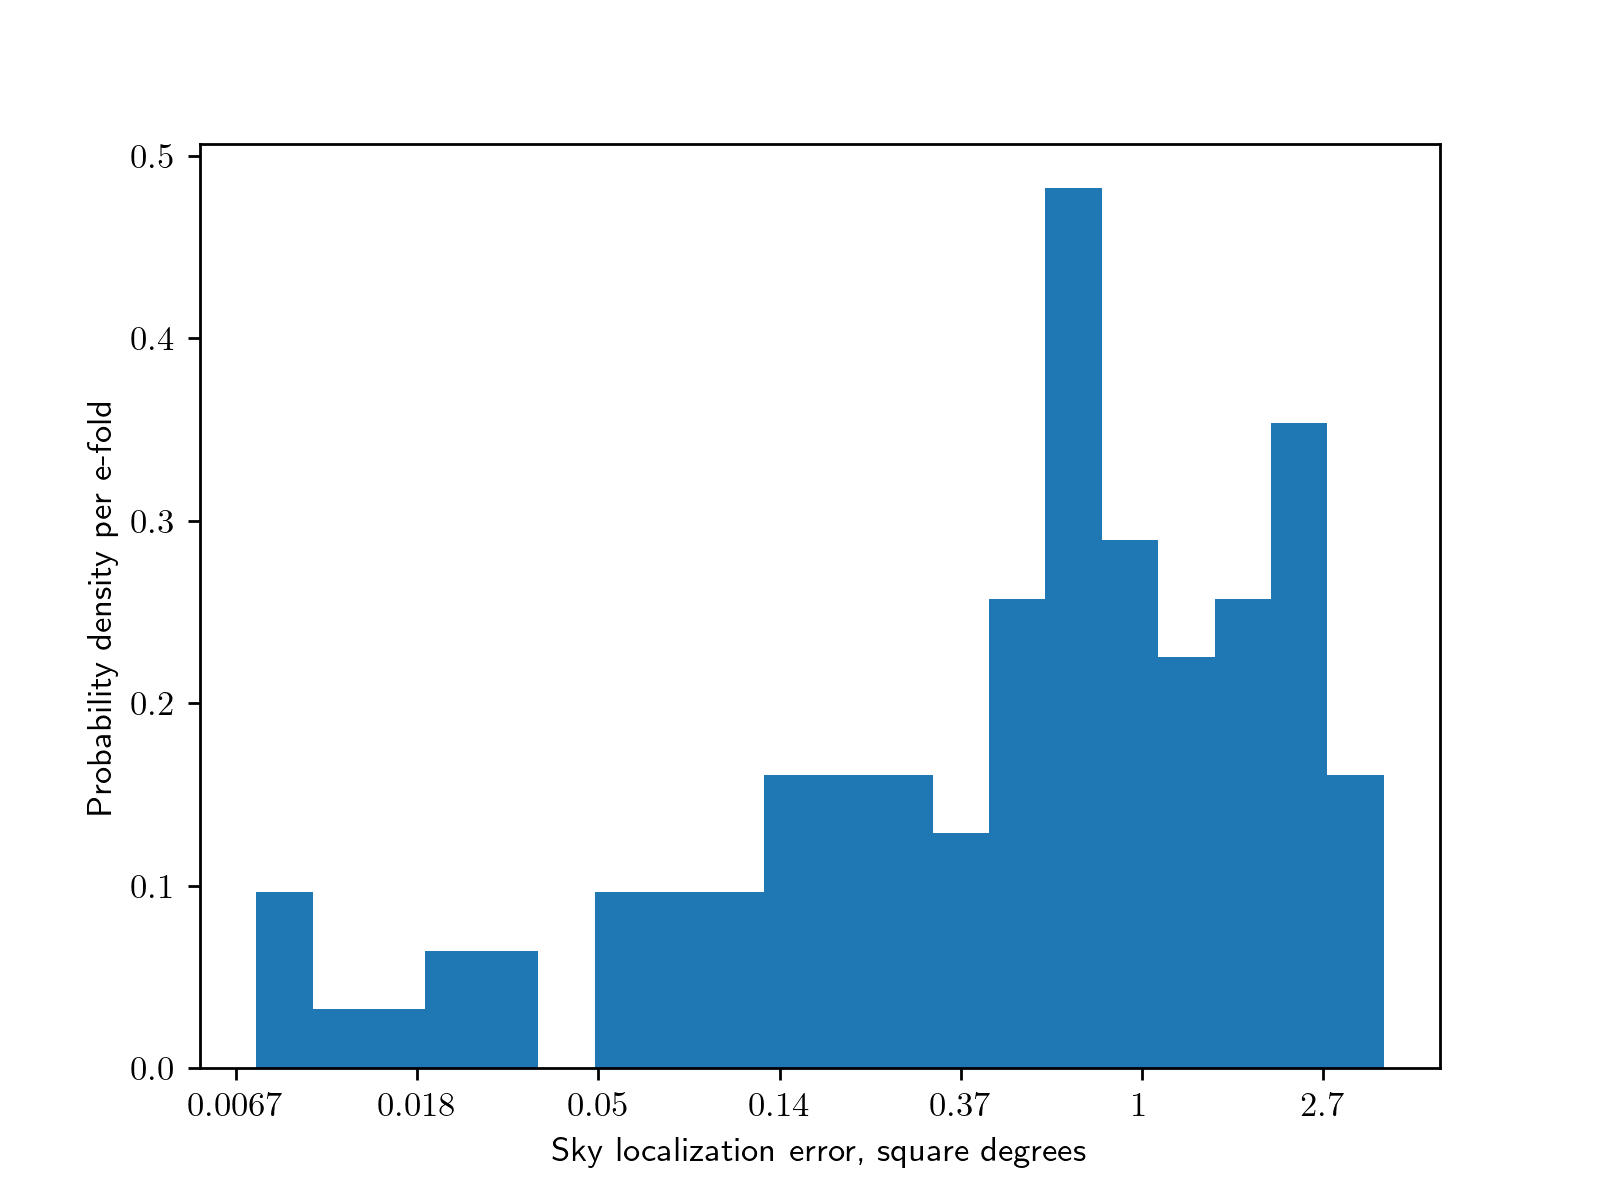
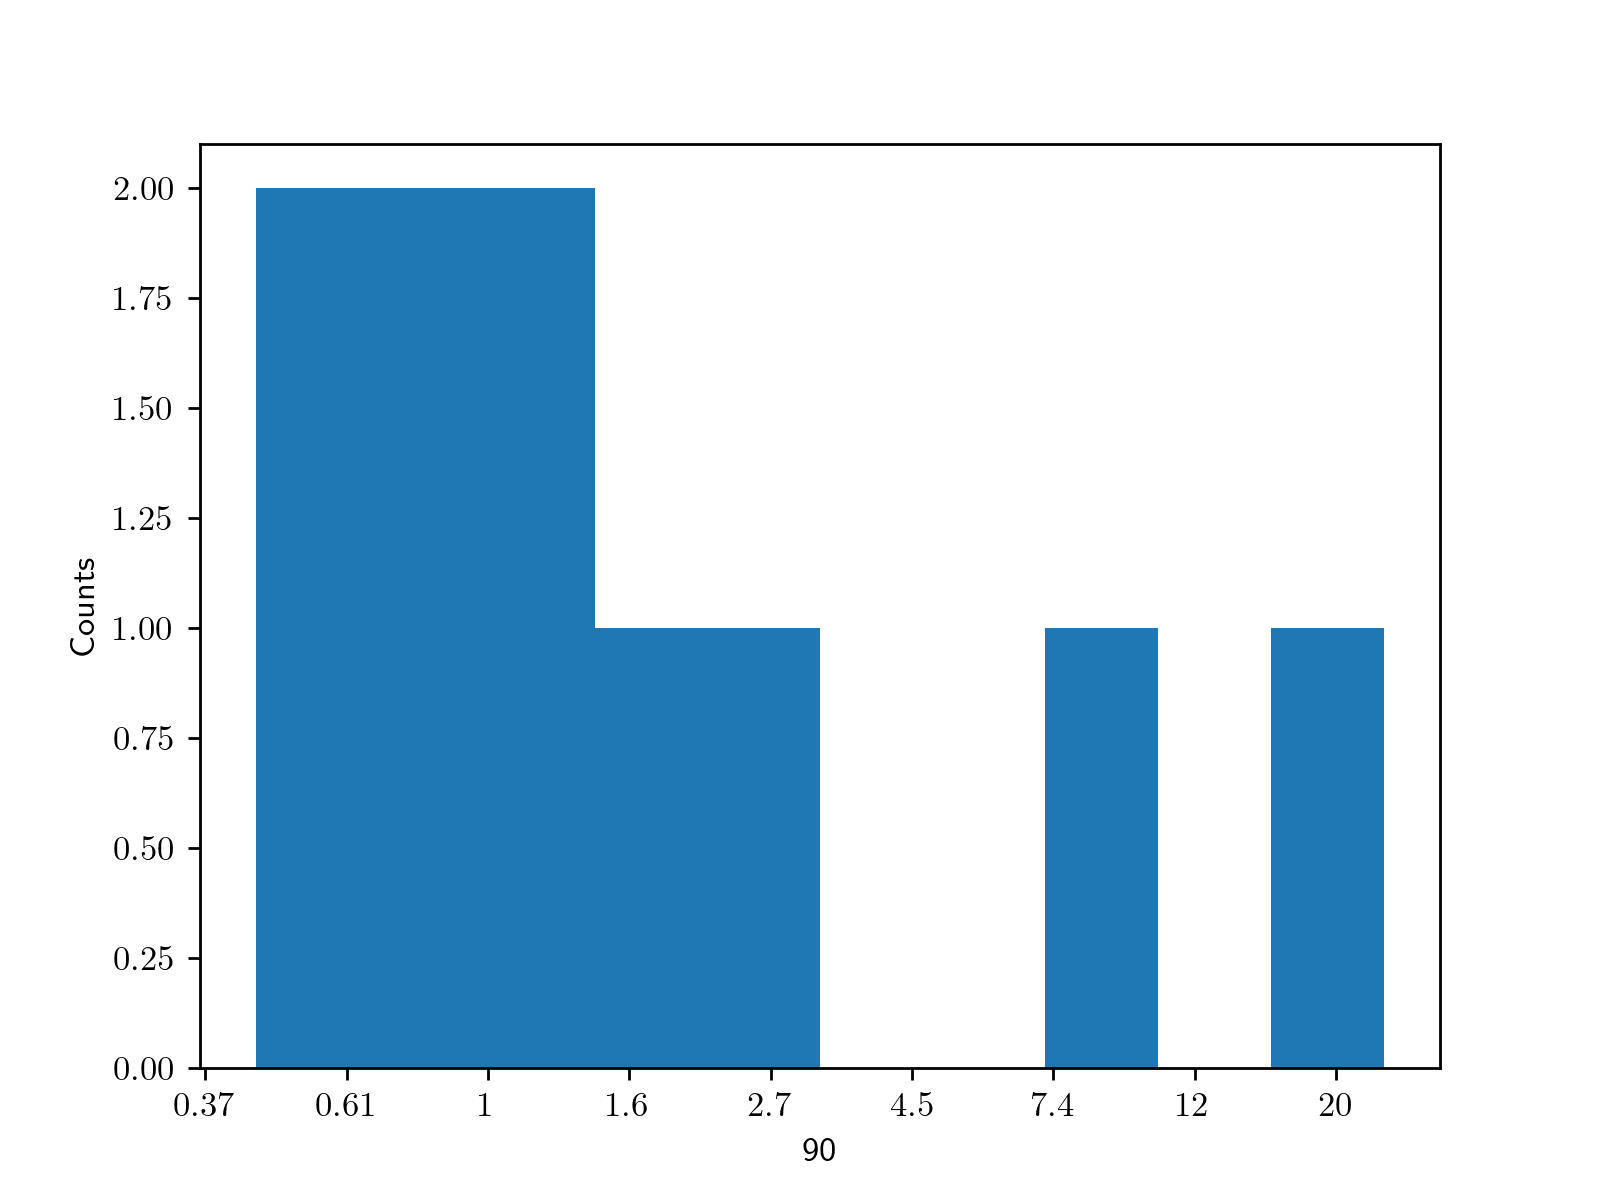
update figures

diff --git a/docs/source/tutorials/tutorial_randomization.md b/docs/source/tutorials/tutorial_randomization.md
@@ -25,16 +25,16 @@ $$
 therefore we can generate a number $x \sim \mathcal{U}(-1, 1)$ and take its arccosine
 to get a sine-distributed variable.
 
-We will generate 100 such samples - not really enough to get good statistics, but 
+We will generate 10 such samples - not enough to get good statistics, but 
 it will suffice for this tutorial, and it will allow us to run quickly.
 
 ```python
 >>> import pandas as pd
 >>> import numpy as np
 
->>> rng = np.random.default_rng()
+>>> rng = np.random.default_rng(seed=1)
 
->>> ns = 100
+>>> ns = 10
 >>> one = np.ones((ns,))
 >>> parameters = pd.DataFrame.from_dict({
 ...    'mass_1': 1.4*one, 
@@ -83,20 +83,20 @@ The following code snippets are all __self-contained__, and can each be copy-pas
 into a `python` script and executed.
 
 ```python
-import pandas as pd
-import matplotlib.pyplot as plt
-import numpy as np
-from matplotlib import rc
-from GWFish.modules.fishermatrix import sky_localization_percentile_factor
-rc('text', usetex=True)
+>>> import pandas as pd
+>>> import matplotlib.pyplot as plt
+>>> import numpy as np
+>>> from matplotlib import rc
+>>> from GWFish.modules.fishermatrix import sky_localization_percentile_factor
+>>> rc('text', usetex=True)
 
-skyloc_ninety = sky_localization_error * sky_localization_percentile_factor()
-plt.hist(np.log(skyloc_ninety), bins=20, density=True)
+>>> skyloc_ninety = sky_localization * sky_localization_percentile_factor()
+>>> _ = plt.hist(np.log(skyloc_ninety), bins=10)
 
-plt.xlabel('90% Sky localization error, square degrees')
-plt.ylabel('Probability density per e-fold')
-plt.gca().xaxis.set_major_formatter(lambda x, pos: f'${np.exp(x):.2g}$')
-plt.savefig('sky_localization_histogram.png', dpi=250)
+>>> plt.xlabel('90% Sky localization error, square degrees')
+>>> plt.ylabel('Counts')
+>>> plt.gca().xaxis.set_major_formatter(lambda x, pos: f'${np.exp(x):.2g}$')
+
 ```
 
 ```{figure} ../figures/sky_localization_histogram.png
@@ -107,24 +107,23 @@ Histogram of the sky-localization of a GW170817-like signal, with randomized ori
 or scatter plots:
 
 ```python
-import pandas as pd
-import matplotlib.pyplot as plt
-import numpy as np
-from matplotlib import rc
-from GWFish.modules.fishermatrix import sky_localization_percentile_factor
+>>> import pandas as pd
+>>> import matplotlib.pyplot as plt
+>>> import numpy as np
+>>> from matplotlib import rc
+>>> from GWFish.modules.fishermatrix import sky_localization_percentile_factor
 
-rc('text', usetex=True)
+>>> rc('text', usetex=True)
 
-skyloc_ninety = sky_localization_error * sky_localization_percentile_factor()
+>>> skyloc_ninety = sky_localization * sky_localization_percentile_factor()
+>>> plt.scatter(np.log(skyloc_ninety), np.log(snr))
 
-plt.scatter(np.log(skyloc_ninety), np.log(snr))
+>>> plt.xlabel('Sky localization error, square degrees')
+>>> plt.gca().xaxis.set_major_formatter(lambda x, pos: f'${np.exp(x):.2g}$')
 
-plt.xlabel('Sky localization error, square degrees')
-plt.gca().xaxis.set_major_formatter(lambda x, pos: f'${np.exp(x):.2g}$')
+>>> plt.ylabel('Network SNR')
+>>> plt.gca().yaxis.set_major_formatter(lambda x, pos: f'${np.exp(x):.0f}$')
 
-plt.ylabel('Network SNR')
-plt.gca().yaxis.set_major_formatter(lambda x, pos: f'${np.exp(x):.0f}$')
-plt.savefig('snr_skyloc_scatter.png', dpi=250)
 ```
 
 ```{figure} ../figures/snr_skyloc_scatter.png

diff --git a/docs/source/tutorials/tutorial_170817.md b/docs/source/tutorials/tutorial_170817.md
@@ -7,8 +7,8 @@ For more details on the mathematics of how the errors are obtained, see the
 
 ## What we want to do
 
-We will study a GW170817-like signal, as would be seen by LGWA plus Einstein Telescope.
-The Fisher matrix approach can give us estimates of the overall SNR it would have, 
+We will study a GW170817-like signal, as would be seen by a network of Einstein Telescope and two Cosmic Explorers.
+GWFish can give us estimates of the overall SNR it would have, 
 as well as the errors in the estimates of the signal parameters.
 
 ## Population file
@@ -114,6 +114,7 @@ dec: 4.74e-03
 psi: 7.22e-01
 phase: 1.45e+00
 geocent_time: 2.72e-05
+
 ```
 
 So, for example, the error in distance is `64.4`, in the same units as the distance parameter: the estimated error is $\sigma_{d_L} \approx 64.4 \text{Mpc}$.
@@ -123,9 +124,10 @@ The sky localization error is given separately:
 ```python
 >>> from GWFish.modules.fishermatrix import sky_localization_percentile_factor
 >>> print(f'{sky_localization[0]:.2e}')
-6.75e-05
+6.76e-05
 >>> print(f'{sky_localization[0] * sky_localization_percentile_factor():.2e}')
 1.02e+00
+
 ```
 
 The default output from GWFish is a one-sigma error expressed in square radians, 
@@ -133,6 +135,9 @@ which is the natural result of the Fisher matrix analysis.
 The convention in astronomy, instead, is to measure these in square degrees (which means we need a conversion factor of $( 180 \text{deg} / \pi \text{rad})^2$) and in 
 terms of the $90\%$ sky area. 
 This computation is common enough for these analysis that GWFish includes a [convenience function](#utility-functions) for it, labelled `sky_localization_percentile_factor`.
+
+With the conversion done, we can say that the $90\%$ sky area for this (very loud
+signal) is expected to be about $\Delta \Omega _{90\%} \approx 1.02 \text{deg}^2$.
 
 
 ```{note}
@@ -152,6 +157,7 @@ for example, the following `scipy` code, or the analytical expression:
 >>> from scipy.stats import chi2
 >>> print(f'{chi2.isf(1 - 0.90, df=2):.3f}')
 4.605
->>> print(f'{-2*np.log(1 - 0.90)}:.3f')
+>>> print(f'{-2*np.log(1 - 0.90):.3f}')
 4.605
+
 ```
